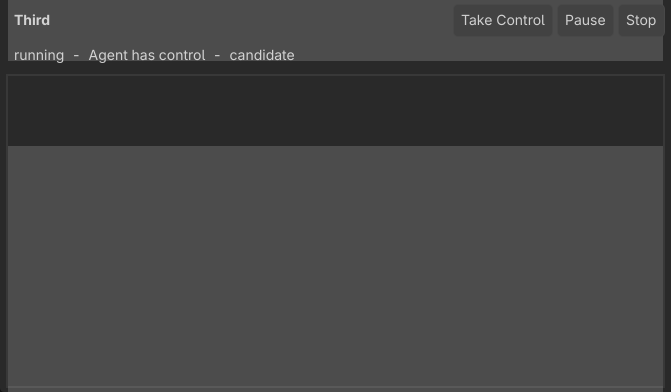
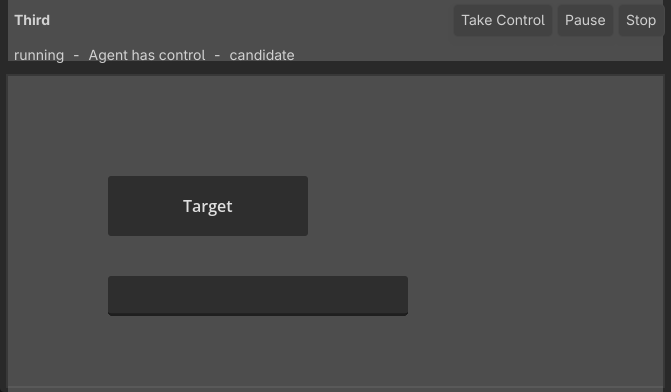
A tile capture now shows the game in the tile
Capturing a workspace tile returned the tile's chrome around a flat
rectangle, because an embedded game's pixels are not in the editor's render
target on any platform - X11 reparents a foreign native window, macOS
attaches a window-server CALayer - and the capture read the render target.
An agent that launches three variants could not see any of them, on the
machine where seeing them is how it works.

First attempt was a screen-region grab for crops that hold a completed
embedder. It produced pixels, of whatever window happened to be frontmost -
in an automated run, routinely not the editor. Kept as diagnosis, replaced
as implementation.

What can promise both halves - the game's layer included, whatever overlaps
the editor excluded - is the window server's own copy of one window. That
did not exist in DisplayServer, so it does now: `window_get_image(WindowID)`
returns a single window's composited contents, implemented on macOS with the
same CGWindowList API the existing screen capture already uses, asked about
one window instead of all of them. Other platforms return empty and the tool
falls back to the render target.

Godot_CaptureEditorControl detects a completed embedder intersecting its
crop, takes the crop from the window image instead, and stamps the result
`editor_screen` with a note saying why, so a reader of the metadata knows
which kind of pixels they hold.

Verified: the spike's tile captures now contain the running game's Target
[…]

Changed region(s): [[0.0, 0.1837, 1.0, 0.398], [0.149, 0.4286, 0.4769, 0.6122], [0.149, 0.7041, 0.6259, 0.8265]]

diff --git a/modules/godot_ai/tools/mcp_editor_ui_tools.cpp b/modules/godot_ai/tools/mcp_editor_ui_tools.cpp
@@ -62,6 +62,7 @@
 #include "core/os/os.h"
 #include "core/os/time.h"
 #include "core/variant/array.h"
+#include "editor/run/embedded_process.h"
 #include "scene/gui/control.h"
 #include "scene/gui/item_list.h"
 #include "scene/gui/tab_bar.h"
@@ -185,6 +186,28 @@ void add_inline_capture(const Ref<Image> &p_image, Dictionary &r_result) {
 	content.push_back(block);
 	r_result["_content"] = content;
 	r_result["inlined"] = true;
+}
+
+// Whether any embedded game is composited inside this rect. An embedded game's pixels
+// are not in the editor's render target on any platform - X11 reparents a foreign
+// native window, macOS attaches a window-server CALayer - so a texture read of a region
+// holding one returns the editor's own background where the game visibly is. The only
+// honest source for such a region is the screen.
+bool rect_holds_embedded_game(Node *p_node, const Viewport *p_viewport, const Rect2 &p_rect) {
+	if (!p_node) {
+		return false;
+	}
+	const EmbeddedProcessBase *embedder = Object::cast_to<EmbeddedProcessBase>(p_node);
+	if (embedder && embedder->is_embedding_completed() && embedder->get_viewport() == p_viewport &&
+			embedder->is_visible_in_tree() && p_rect.intersects(embedder->get_global_rect())) {
+		return true;
+	}
+	for (int i = 0; i < p_node->get_child_count(); i++) {
+		if (rect_holds_embedded_game(p_node->get_child(i), p_viewport, p_rect)) {
+			return true;
+		}
+	}
+	return false;
 }
 
 void collect_visible_windows(Node *p_node, Vector<Window *> &r_windows) {
@@ -630,7 +653,44 @@ public:
 				Point2i(Math::ceil(end.x * scale.x) - Math::floor(begin.x * scale.x),
 						Math::ceil(end.y * scale.y) - Math::floor(begin.y * scale.y)));
 		pixels = pixels.intersection(Rect2i(0, 0, screen->get_width(), screen->get_height()));
-		Ref<Image> image = screen->get_region(pixels);
+		Ref<Image> image;
+		bool from_screen = false;
+		// A crop that holds an embedded game cannot come from the render target: the
+		// game is composited by the display system, and the texture holds editor
+		// background where the game visibly is. Take exactly the same crop from the
+		// screen instead, mapped through the same logical-to-pixel scale.
+		Window *host_window = Object::cast_to<Window>(viewport);
+		DisplayServer *display = DisplayServer::get_singleton();
+		if (host_window && display && rect_holds_embedded_game(host_window, viewport, crop_rect)) {
+			// The one source that can promise both halves: the window server's copy of
+			// this window carries the game's layer, and nothing that overlaps the editor
+			// on screen. A screen-rect grab was tried first and photographed whichever
+			// window happened to be frontmost - which in an automated run is routinely
+			// not the editor.
+			const Ref<Image> whole = display->window_get_image(host_window->get_window_id());
+			if (whole.is_valid() && !whole->is_empty()) {
+				const Vector2 window_scale((double)whole->get_width() / viewport_rect.size.x,
+						(double)whole->get_height() / viewport_rect.size.y);
+				Rect2i window_pixels(
+						Point2i(Math::floor((crop_rect.position.x - viewport_rect.position.x) * window_scale.x),
+								Math::floor((crop_rect.position.y - viewport_rect.position.y) * window_scale.y)),
+						Point2i(Math::ceil(crop_rect.size.x * window_scale.x), Math::ceil(crop_rect.size.y * window_scale.y)));
+				window_pixels = window_pixels.intersection(Rect2i(0, 0, whole->get_width(), whole->get_height()));
+				if (window_pixels.size.x > 1 && window_pixels.size.y > 1) {
+					image = whole->get_region(window_pixels);
+					if (image->get_format() != Image::FORMAT_RGBA8) {
+						image->convert(Image::FORMAT_RGBA8);
+					}
+					if (image->get_width() != pixels.size.x || image->get_height() != pixels.size.y) {
+						image->resize(pixels.size.x, pixels.size.y, Image::INTERPOLATE_BILINEAR);
+					}
+					from_screen = true;
+				}
+			}
+		}
+		if (image.is_null()) {
+			image = screen->get_region(pixels);
+		}
 		const Rect2i target_pixels(
 				Point2i(Math::round((target_rect.position.x - crop_rect.position.x) * scale.x),
 						Math::round((target_rect.position.y - crop_rect.position.y) * scale.y)),
@@ -674,9 +734,17 @@ public:
 		result["target_y"] = target_pixels.position.y;
 		result["target_width"] = target_pixels.size.x;
 		result["target_height"] = target_pixels.size.y;
-		MCPCaptureMetadata::stamp(result, MCPCaptureMetadata::SOURCE_EDITOR_VIEWPORT,
+		MCPCaptureMetadata::stamp(result,
+				from_screen ? MCPCaptureMetadata::SOURCE_EDITOR_SCREEN : MCPCaptureMetadata::SOURCE_EDITOR_VIEWPORT,
 				!window_title.is_empty() ? vformat("editor window '%s'", window_title) : vformat("editor Control %s", node_path));
-		MCPCaptureMetadata::add_note(result, "This is a tight editor UI crop, not the desktop, whole app, or running game.");
+		if (from_screen) {
+			MCPCaptureMetadata::add_note(result,
+					"This crop holds an embedded game, whose pixels the display system composites "
+					"outside the editor's render target - so it was taken from the screen. Anything "
+					"overlapping the editor in that region appears too.");
+		} else {
+			MCPCaptureMetadata::add_note(result, "This is a tight editor UI crop, not the desktop, whole app, or running game.");
+		}
 		if ((bool)p_arguments.get("inline_image", true)) {
 			add_inline_capture(image, result);
 		}

diff --git a/platform/macos/display_server_macos.mm b/platform/macos/display_server_macos.mm
@@ -1752,6 +1752,43 @@ Ref<Image> DisplayServerMacOS::screen_get_image_rect(const Rect2i &p_rect) const
 	return img;
 }
 
+Ref<Image> DisplayServerMacOS::window_get_image(DisplayServerEnums::WindowID p_window) const {
+	_THREAD_SAFE_METHOD_
+
+	ERR_FAIL_COND_V(!windows.has(p_window), Ref<Image>());
+	const WindowData &wd = windows[p_window];
+
+	// The window server's own copy of this one window, embedded CALayers included and
+	// whatever overlaps it on screen excluded - which a screen-rect capture cannot
+	// promise. The same CGWindowList API the screen capture above uses, asked about a
+	// single window instead of all of them.
+	CGWindowID window_number = (CGWindowID)[wd.window_object windowNumber];
+	CGImageRef image = CGWindowListCreateImage(CGRectNull, kCGWindowListOptionIncludingWindow, window_number, kCGWindowImageBoundsIgnoreFraming);
+	if (!image) {
+		return Ref<Image>();
+	}
+
+	Ref<Image> img;
+	CGColorSpaceRef color_space = CGColorSpaceCreateDeviceRGB();
+	if (color_space) {
+		NSUInteger width = CGImageGetWidth(image);
+		NSUInteger height = CGImageGetHeight(image);
+		if (width > 0 && height > 0) {
+			Vector<uint8_t> img_data;
+			img_data.resize_initialized(height * width * 4);
+			CGContextRef context = CGBitmapContextCreate(img_data.ptrw(), width, height, 8, 4 * width, color_space, (uint32_t)kCGImageAlphaPremultipliedLast | kCGBitmapByteOrder32Big);
+			if (context) {
+				CGContextDrawImage(context, CGRectMake(0, 0, width, height), image);
+				img = Image::create_from_data(width, height, false, Image::FORMAT_RGBA8, img_data);
+				CGContextRelease(context);
+			}
+		}
+		CGColorSpaceRelease(color_space);
+	}
+	CGImageRelease(image);
+	return img;
+}
+
 Vector<DisplayServerEnums::WindowID> DisplayServerMacOS::get_window_list() const {
 	_THREAD_SAFE_METHOD_
 

diff --git a/servers/display/display_server.h b/servers/display/display_server.h
@@ -351,6 +351,11 @@ public:
 	virtual Color screen_get_pixel(const Point2i &p_position) const { return Color(); }
 	virtual Ref<Image> screen_get_image(int p_screen = DisplayServerEnums::SCREEN_OF_MAIN_WINDOW) const { return Ref<Image>(); }
 	virtual Ref<Image> screen_get_image_rect(const Rect2i &p_rect) const { return Ref<Image>(); }
+	// One window's composited contents, straight from the window server - including
+	// content the window system draws into it that is not part of the process's own
+	// render target (an embedded game's layer), and regardless of what overlaps it on
+	// screen. Platforms without a way to ask return empty.
+	virtual Ref<Image> window_get_image(DisplayServerEnums::WindowID p_window) const { return Ref<Image>(); }
 	virtual bool is_touchscreen_available() const;
 
 	virtual void screen_set_orientation(DisplayServerEnums::ScreenOrientation p_orientation, int p_screen = DisplayServerEnums::SCREEN_OF_MAIN_WINDOW);

diff --git a/platform/macos/display_server_macos.h b/platform/macos/display_server_macos.h
@@ -314,6 +314,7 @@ public:
 	virtual Color screen_get_pixel(const Point2i &p_position) const override;
 	virtual Ref<Image> screen_get_image(int p_screen = DisplayServerEnums::SCREEN_OF_MAIN_WINDOW) const override;
 	virtual Ref<Image> screen_get_image_rect(const Rect2i &p_rect) const override;
+	virtual Ref<Image> window_get_image(DisplayServerEnums::WindowID p_window) const override;
 	virtual Vector<int> get_window_list() const override;
 
 	virtual DisplayServerEnums::WindowID create_sub_window(DisplayServerEnums::WindowMode p_mode, DisplayServerEnums::VSyncMode p_vsync_mode, uint32_t p_flags, const Rect2i &p_rect = Rect2i(), bool p_exclusive = false, DisplayServerEnums::WindowID p_transient_parent = DisplayServerEnums::INVALID_WINDOW_ID) override;
